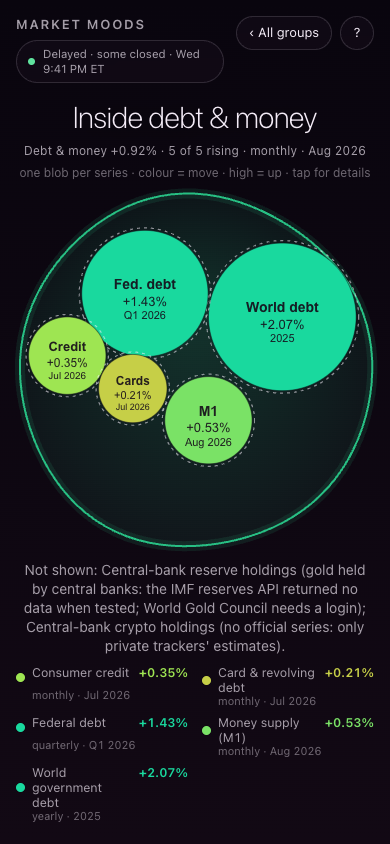
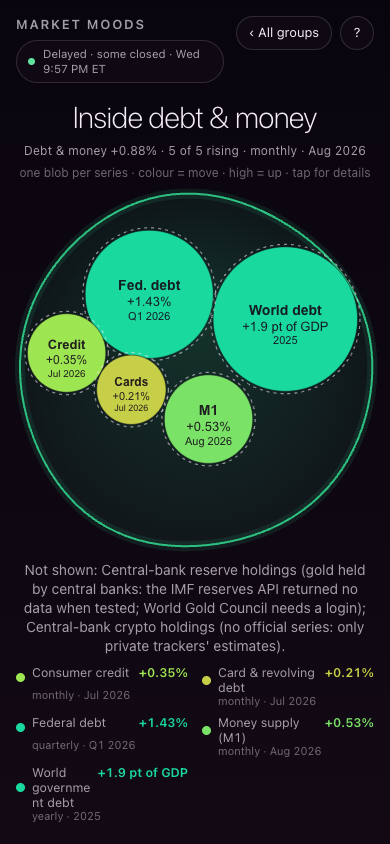
Critic round 1 fixes: economy.html drew only 5 of 7 groups (shader slots), front page two rows on phones + Stocks/Economy captions, economy refresh on its own clock, 2-drop econ blobs, one-pass labels, bigger tap targets; world debt in pt of GDP (IMF estimate), trade $20 bn = 1%, help covers trade/q

diff --git a/index.html b/index.html
@@ -66,6 +66,10 @@
   .tags { position: fixed; inset: 0; pointer-events: none; }
   .tags span.door { pointer-events: auto; cursor: pointer; }
   .tags span.econ { font-size: 10px; opacity: .8; }
+  .fam { position: fixed; inset: 0; pointer-events: none; }
+  .fam span { position: absolute; transform: translate(-50%, 0); font-size: 10px; letter-spacing: .16em; text-transform: uppercase; color: var(--ink-3); opacity: .7; white-space: nowrap; }
+  .fam.stacked { display: none; }   /* phone: two rows already split stocks (top) from the economy (bottom) */
+  body.incell .fam { display: none; }
   .cellcap { position: absolute; left: 0; right: 0; top: 11%; text-align: center; pointer-events: none; display: none; }
   body.incell .cellcap { display: block; }
   .cellcap .word { font-size: clamp(30px, 5.4vw, 58px); font-weight: 200; letter-spacing: -.02em; line-height: 1.05;
@@ -180,6 +184,7 @@
 
 <div class="chrome" id="chrome">
   <div class="tags" id="tags" aria-hidden="true"></div>
+  <div class="fam" id="fam" aria-hidden="true" hidden><span>Stocks</span><span>Economy</span></div>
   <header>
     <div class="brand">
       <h1>Market Moods</h1>
@@ -278,6 +283,7 @@
   // Mood.econGroupPct average economy.html shows, and a tap opens that group's inside view there.
   // They have no intraday replay: a group shows its latest move whatever the timeline is doing.
   const econ = [];
+  const fam = {};             // where the Stocks / Economy captions go, set by draw()
   async function loadEcon() {
     try {
       const r = await fetch("data/economy.json?t=" + Date.now(), { cache: "no-store" });
@@ -292,7 +298,7 @@
         const L = econ.find(e => e.key === g.key);
         if (L) Object.assign(L, { name: g.name, short: g.short, target: g.pct, chop: g.chop });
         else econ.push({ key: g.key, name: g.name, short: g.short, target: g.pct, chop: g.chop, pct: g.pct, h: Mood.height(g.pct), sz: Mood.size(g.pct),
-                         sp: 1, ph: 40 + i * 10, col: Mood.colour(g.pct), drops: makeDrops() });
+                         sp: 1, ph: 40 + i * 10, col: Mood.colour(g.pct), drops: makeDrops(ECON_DROPS) });
       });
       for (let i = econ.length - 1; i >= 0; i--) if (!gs.some(g => g.key === econ[i].key)) econ.splice(i, 1);
       document.body.dataset.econ = econ.map(e => e.key + ":" + e.target.toFixed(2)).join(",");   // read by browser-check.sh
@@ -426,9 +432,9 @@
       lanes.push({ pct: p0, h: Mood.height(p0), sz: Mood.size(p0), sp: 1, ph: i * 10, col: Mood.colour(p0), drops: makeDrops() });
     });
   }
-  function makeDrops() {
+  function makeDrops(count = DROPS) {
     const drops = [];
-    for (let k = 0; k < DROPS; k++) {
+    for (let k = 0; k < count; k++) {
       const s = k * 2.71;                 // same drop shapes in every lane: only the data may make them differ
       drops.push({ ax: 0.6 + 0.4 * frac(s * 1.3), wx: 0.23 + 0.31 * frac(s * 2.1), px: frac(s * 3.7) * 6.28,
                    ay: 0.7 + 0.5 * frac(s * 4.3), wy: 0.11 + 0.19 * frac(s * 5.9), py: frac(s * 6.1) * 6.28,
@@ -443,7 +449,8 @@
   const canvas = $("lamp");
   const gl = canvas.getContext("webgl", { antialias: false, premultipliedAlpha: false, alpha: false });
   const ECON_MAX = 8;                           // economy group blobs beside the four indexes (mm19)
-  const N = (4 + ECON_MAX) * DROPS;
+  const ECON_DROPS = 2;                         // an economy blob: core + one satellite (keeps the shader inside phone GPUs' uniform budget)
+  const N = 4 * DROPS + ECON_MAX * ECON_DROPS;
   let prog, uRes, uBalls, uCols, uBgTop, uBgBot, uHeat, uFear;
   if (gl) {
     const vs = `attribute vec2 p; void main(){ gl_Position = vec4(p, 0.0, 1.0); }`;
@@ -573,17 +580,25 @@
 
   function draw() {
     const W = canvas.width, H = canvas.height, aspect = W / H;
-    // index lanes are full width, economy lanes 0.6 of one (smaller blobs): together they share the screen
-    // a half-lane gap between the two families keeps their wax fields from fusing into one glob
-    const EW = 0.6, GAP = econ.length ? 0.5 : 0, laneW = aspect / (4 + GAP + EW * econ.length);
+    // wide screens: index lanes full width, economy lanes 0.6 of one, a half-lane gap between the two
+    // families so their wax fields never fuse. Narrow (phone): stocks ride the upper row and the
+    // economy the lower one, each family spread over the whole width, each with its own up/down band.
+    const stacked = econ.length > 0 && aspect < 0.8;
+    const EW = 0.6, GAP = econ.length && !stacked ? 0.5 : 0;
+    const laneW = stacked ? aspect / 4 : aspect / (4 + GAP + EW * econ.length);
+    const wE = stacked ? aspect / Math.max(1, econ.length) : laneW * EW, x0E = stacked ? 0 : (4 + GAP) * laneW;
     const baseR = Math.min(laneW * 0.34, 0.095) * pulseNow;   // the heartbeat: exactly 1 when pulseAmp is 0
     const band = travel(baseR * 1.4 * 1.25);   // biggest blob (size 1.4) with its droplets bunched: body edge at (Σr⁴)^¼ ≈ 1.23 R
+    const span = band[1] - band[0];
+    const bandI = stacked ? [band[0] + span * 0.55, band[1]] : band, bandE = stacked ? [band[0], band[0] + span * 0.22] : band;
+    fam.stacked = stacked; fam.iX = 2 * laneW / aspect; fam.eX = (x0E + econ.length * wE / 2) / aspect;
+    fam.iY = bandI[1] + baseR * 1.6; fam.eY = bandE[1] + (stacked ? wE * 0.3 + 0.02 : baseR * 1.6);   // just over the family's highest blob
     let n = 0;
     lanes.concat(econ).forEach((L, i) => {
-      const isE = i >= 4, w = isE ? laneW * EW : laneW;
-      const cx = isE ? (4 + GAP) * laneW + (i - 4 + 0.5) * w : (i + 0.5) * laneW;
+      const isE = i >= 4, w = isE ? wE : laneW, bd = isE ? bandE : bandI;
+      const cx = isE ? x0E + (i - 4 + 0.5) * w : (i + 0.5) * laneW;
       let low = Infinity;
-      const cy = band[0] + L.h * (band[1] - band[0]);
+      const cy = bd[0] + L.h * (bd[1] - bd[0]);
       const amp = 0.55 + 0.45 * Math.min(L.sp, 2.2);
       L.drops.forEach((d, k) => {
         const core = k === 0;
@@ -591,11 +606,12 @@
         // they break away and rejoin. A steady index stays whole, a choppy one comes apart.
         const brk = Math.min(1, Math.max(0.05, (L.sp - 0.6) / 1.0));
         const drift = core ? 0 : 0.7 + 1.6 * brk * Math.max(0, Math.sin((L.ph - i * 10) * 0.17 + d.px * 1.7));   // break-away clock shared: equal chop, equal spread
-        const R = isE ? Math.min(baseR * L.sz * EW, w * 0.3) : baseR * L.sz;   // an economy blob never outgrows its narrow lane   // offsets scale with the blob, so phone and desktop look alike
+        const R = isE ? Math.min(baseR * L.sz * EW, w * 0.3) : baseR * L.sz;   // an economy blob never outgrows its narrow lane; offsets scale with the blob
         const r = R * d.rr, room = Math.max(0, w * 0.5 - r);   // wax stays in its own lane and band
         const x = cx + clampN(Math.sin(L.ph * d.wx * 2 + d.px) * (core ? w * 0.06 : R * 0.45 * d.ax * drift) * amp, -room, room);
-        const y = clampN(cy + Math.sin(L.ph * d.wy * 2 + d.py) * (core ? 0.02 : R * 1.6 * d.ay * drift) * amp, band[0], band[1]);
+        const y = clampN(cy + Math.sin(L.ph * d.wy * 2 + d.py) * (core ? 0.02 : R * 1.6 * d.ay * drift) * amp, bd[0], bd[1]);
         balls[n * 3] = x; balls[n * 3 + 1] = y; balls[n * 3 + 2] = r;
+        if (core) { L.hx = x; L.hy = y; L.hitR = isE ? Math.max(r * 1.5, w * 0.45) : r * 1.5; }   // tap target: a small economy blob gets its lane's width
         low = Math.min(low, y - r * 1.1);
         cols[n * 3] = L.col[0]; cols[n * 3 + 1] = L.col[1]; cols[n * 3 + 2] = L.col[2];
         n++;
@@ -642,18 +658,29 @@
       econ.forEach(g => { const a = document.createElement("span"); a.textContent = g.short; a.className = "door econ";
         a.title = "Look inside " + g.name; a.onclick = () => { location.href = "economy.html#g=" + g.key; }; tags.appendChild(a); });
     }
-    lanes.concat(econ).forEach((L, i) => { if (L.tagX == null) return; const s = tags.children[i];
-      const half = s.offsetWidth / 2 / innerWidth;   // a label never runs off either edge of the screen
-      s.style.left = (clampN(L.tagX, half + 0.01, 1 - half - 0.01) * 100).toFixed(2) + "%"; s.style.bottom = (Math.max(0, L.tagY) * 100).toFixed(2) + "%";
-      s.style.visibility = "visible"; });
-    // economy labels sit close together: one that would touch the label before it drops a line
-    let prev = null;
-    for (const s of [...tags.children].slice(data.indexes.length)) {
-      const r = s.getBoundingClientRect();
-      if (prev && r.left < prev.right + 4 && r.right > prev.left - 4 && r.top < prev.bottom + 2 && r.bottom > prev.top - 2)
-        s.style.bottom = Math.max(0, innerHeight - prev.bottom - r.height - 2) + "px";   // sit just under the label before it
-      prev = s.getBoundingClientRect();
-    }
+    // labels in one pass: read every width, then write every position (no read-after-write reflow per label).
+    // A label never runs off either screen edge; an economy label that would touch any label already placed
+    // drops below it, never under the bottom of the screen.
+    const all = lanes.concat(econ), els = [...tags.children], W_ = innerWidth, H_ = innerHeight;
+    const boxes = all.map((L, i) => { const s = els[i]; if (!s || L.tagX == null) return null;
+      const w = s.offsetWidth, h = s.offsetHeight || 14, half = w / 2 / W_;
+      const x = clampN(L.tagX, half + 0.01, 1 - half - 0.01) * W_;
+      return { s, l: x - w / 2, r: x + w / 2, h, b: Math.max(0, L.tagY) * H_, x }; });
+    const placed = [];
+    boxes.forEach((B, i) => { if (!B) return;
+      if (i >= 4) for (let guard = 0; guard < 8; guard++) {
+        const hit = placed.find(P => B.l < P.r + 4 && B.r > P.l - 4 && B.b < P.b + P.h + 2 && B.b + B.h > P.b - 2);
+        if (!hit) break; B.b = Math.max(0, hit.b - B.h - 2);
+        if (B.b === 0) break;
+      }
+      placed.push(B); });
+    for (const B of boxes) if (B) { B.s.style.left = (B.x / W_ * 100).toFixed(2) + "%"; B.s.style.bottom = B.b.toFixed(1) + "px"; B.s.style.visibility = "visible"; }
+    // the two family captions (Stocks / Economy): above each family on a wide screen, at the left of each row on a phone
+    const fm = $("fam");
+    if (fm) { fm.hidden = !econ.length; fm.classList.toggle("stacked", !!fam.stacked);
+      const [cs, ce] = fm.children;
+      cs.style.left = fam.stacked ? "16px" : (fam.iX * 100).toFixed(2) + "%"; cs.style.bottom = (fam.iY * 100).toFixed(2) + "%";
+      ce.style.left = fam.stacked ? "16px" : (fam.eX * 100).toFixed(2) + "%"; ce.style.bottom = (fam.eY * 100).toFixed(2) + "%"; }
     $("moodWord").textContent = Mood.moodWord(avgPctShown);
     $("moodWord").style.color = hex(Mood.colour(avgPctShown).map(v => v * 0.35 + 0.65));
     $("moodSub").textContent = "Average move " + fmtPct(avgPctShown);
@@ -1130,8 +1157,7 @@
       const b = i * DROPS * 3;
       return Math.hypot(e.clientX - balls[b] * H, e.clientY - (H - balls[b + 1] * H)) < balls[b + 2] * H * 1.5;
     });
-    const eHit = !hit && econ.find((g, j) => { const b = (4 + j) * DROPS * 3;
-      return balls[b + 2] > 0 && Math.hypot(e.clientX - balls[b] * H, e.clientY - (H - balls[b + 1] * H)) < balls[b + 2] * H * 1.5; });
+    const eHit = !hit && econ.find(g => g.hitR != null && Math.hypot(e.clientX - g.hx * H, e.clientY - (H - g.hy * H)) < g.hitR * H);
     if (hit) openCell(hit.key);
     else if (eHit) location.href = "economy.html#g=" + eHit.key;
     else document.body.classList.toggle("bare");
@@ -1153,6 +1179,7 @@
   }
   load();
   setInterval(load, REFRESH_MS);
+  setInterval(loadEcon, REFRESH_MS);   // economy.json has its own cron: refresh it even when market.json has not changed
   requestAnimationFrame(frame);
   if (/(^#|&)help(&|$)/.test(location.hash)) openHelp();   // #help: for browser-check.sh only
   window.__mm = { get mode() { return mode; }, get pos() { return pos; }, lanes, get data() { return data; }, gl: !!gl,

diff --git a/economy.html b/economy.html
@@ -142,11 +142,11 @@
     <dt>Height</dt><dd>Up floats, down sinks. Inside a group the reach is 2.5%, as inside a company view.</dd>
     <dt>Size</dt><dd>A bigger move is a bigger blob. There is no market value to size a price by.</dd>
     <dt>Motion</dt><dd>Restless when the last hour's prints were choppy. Weekly and monthly numbers have no last hour, so they drift slowly.</dd>
-    <dt>Move</dt><dd id="helpUnits">Prices: percent change on the previous close. Rates: change in basis points (10 bp counts as 1%). Unemployment: change in points (0.1 pt counts as 1%). Jobs: thousands added (150k counts as 1%). Prices, sales and spending: percent change on the previous reading.</dd>
-    <dt>Dates</dt><dd>Prices are delayed by about 10 minutes while their market is open, and say "closed" with the time of the last print when it is not. Weekly and monthly numbers carry the date of the reading itself, and are never called live.</dd>
+    <dt>Move</dt><dd id="helpUnits">Prices: percent change on the previous close. Rates: change in basis points (10 bp counts as 1%). Unemployment: change in points (0.1 pt counts as 1%). Jobs: thousands added (150k counts as 1%). Trade balance: change in dollars ($20 bn counts as 1%); the US runs a deficit, so a wider gap is a fall. World government debt: change in points of world GDP (1 pt counts as 1%), an IMF estimate. Prices, sales, spending, debts and freight: percent change on the previous reading.</dd>
+    <dt>Dates</dt><dd>Prices are delayed by about 10 minutes while their market is open, and say "closed" with the time of the last print when it is not. Weekly, monthly, quarterly and yearly numbers carry the period of the reading itself (federal debt: its quarter, which lands about three months after it ends; world debt: the last full year), and are never called live.</dd>
     <dt>A group's move</dt><dd>The plain average of its members' moves. A group with market prices averages only those; the economy blob averages its slow numbers, each at its own date.</dd>
   </dl>
-  <p class="src" id="src">Data: Yahoo Finance and FRED.</p>
+  <p class="src" id="src">Data: Yahoo Finance, FRED and the IMF.</p>
   <p class="src" id="srcMissing" hidden></p>
   <button class="btn close" id="helpClose" type="button">Close</button>
 </dialog>
@@ -255,7 +255,7 @@
   // ---------- lamp ----------
   const canvas = $("lamp");
   const gl = canvas.getContext("webgl", { antialias: false, premultipliedAlpha: false, alpha: false });
-  const NB = 5 * DROPS;
+  const MAXG = 8, NB = MAXG * DROPS;   // shader slots: up to 8 groups (7 today); a group past the slots would be silently undrawn
   let uRes, uBalls, uCols, uBgTop, uBgBot, uHeat;
   if (gl) {
     const vs = `attribute vec2 p; void main(){ gl_Position = vec4(p, 0.0, 1.0); }`;
@@ -316,7 +316,7 @@
       L.drops.forEach((d, k) => {
         const core = k === 0, brk = Math.min(1, Math.max(0.05, (L.sp - 0.6) / 1.0));
         const drift = core ? 0 : 0.7 + 1.6 * brk * Math.max(0, Math.sin((L.ph - i * 10) * 0.17 + d.px * 1.7));
-        const R = baseR * L.sz, r = R * d.rr, room = Math.max(0, laneW * 0.5 - r);
+        const R = Math.min(baseR * L.sz, laneW * 0.36), r = R * d.rr, room = Math.max(0, laneW * 0.5 - r);   // capped to its lane: two big neighbours never fuse
         const x = cx + clampN(Math.sin(L.ph * d.wx * 2 + d.px) * (core ? laneW * 0.06 : R * 0.45 * d.ax * drift) * amp, -room, room);
         const y = clampN(cy + Math.sin(L.ph * d.wy * 2 + d.py) * (core ? 0.02 : R * 1.6 * d.ay * drift) * amp, band[0], band[1]);
         balls[n * 3] = x; balls[n * 3 + 1] = y; balls[n * 3 + 2] = r;
@@ -326,7 +326,7 @@
       });
       L.tagX = cx / aspect; L.tagY = low - 0.035;
     });
-    canvas.dataset.drops = n;   // read by economy-check.sh: how many wax drops were actually drawn
+    canvas.dataset.drops = Math.min(n, NB);   // read by economy-check.sh: drops the shader can actually draw (slots past NB are dropped by GL)
     const heat = Mood.colour(avgShown);
     gl.uniform2f(uRes, W, H); gl.uniform3fv(uBalls, balls); gl.uniform3fv(uCols, cols);
     gl.uniform3f(uBgTop, 0.035, 0.02, 0.055); gl.uniform3f(uBgBot, 0.07, 0.035, 0.08); gl.uniform3f(uHeat, heat[0], heat[1], heat[2]);

diff --git a/check.js b/check.js
@@ -204,7 +204,8 @@ near(M.econMove("pt", 4.1, 4.2).pct, 1, "econ pt: 0.1 point counts as 1%");
 near(M.econMove("jobs", 100000, 100150).pct, 1, "econ jobs: 150k jobs counts as 1%");
 ok(M.econMove("pct", 0, 5) === null && M.econMove("bp", NaN, 5) === null && M.econMove("nope", 1, 2) === null, "econ: no move rather than a made-up one");
 ok(M.econMove("bp", 5, 5.06).text === "+6 bp" && M.econMove("pct", 100, 98.5).text === "−1.50%" && M.econMove("jobs", 1, 163).text === "+162k jobs", "econ: the words say the unit");
-near(M.econMove("bn", -88576, -78576).pct, 2, "econ bn: a $10 bn narrower trade gap counts as +2%");
+near(M.econMove("bn", -88576, -68576).pct, 1, "econ bn: a $20 bn narrower trade gap counts as +1%");
+ok(M.econMove("gdp", 92, 93.9).text === "+1.9 pt of GDP" && Math.abs(M.econMove("gdp", 92, 93.9).pct - 1.9) < 1e-9, "econ gdp: a share of GDP moves in points, 1 pt = 1%");
 ok(M.econMove("bn", -88576, -98576).text === "−$10.0 bn" && M.econMove("bn", 1, 1).text === "$0.0 bn", "econ bn: the words say dollars, sign first, no -0");
 ok(M.econSlow({ freq: "quarterly" }) && M.econSlow({ freq: "yearly" }), "econ: quarterly and yearly are slow");
 ok(M.econAsOf({ freq: "quarterly", asof: "2026-04-01" }, 0).label === "quarterly · Q2 2026" && M.econAsOf({ freq: "yearly", asof: "2025-01-01" }, 0).label === "yearly · 2025", "econ time: quarterly names its quarter, yearly its year");
@@ -245,7 +246,7 @@ ok(M.econSlow({ freq: "monthly" }) && M.econSlow({ freq: "weekly" }) && !M.econS
       ok(g.members.length >= 3, `${g.key}: at least 3 members live (${g.members.length})`);
       for (const m of g.members) {
         ok(!seen.has(m.key), `${m.key}: not in two groups`); seen.add(m.key); all.push(m);
-        ok(["pct", "bp", "pt", "jobs", "bn"].includes(m.kind) && ["5min", "daily", "weekly", "monthly", "quarterly", "yearly"].includes(m.freq), `${m.key}: known kind and rhythm`);
+        ok(["pct", "bp", "pt", "jobs", "bn", "gdp"].includes(m.kind) && ["5min", "daily", "weekly", "monthly", "quarterly", "yearly"].includes(m.freq), `${m.key}: known kind and rhythm`);
         ok(Number.isFinite(m.prev) && Number.isFinite(m.last) && m.name && m.unit && m.src && m.short, `${m.key}: real numbers, named, with unit and source`);
         const mv = M.econMove(m.kind, m.prev, m.last);
         ok(mv && Math.abs(mv.pct) < 30, `${m.key}: a move exists and is under 30% (${mv && mv.text}): a bigger one is a parse bug, not news`);

diff --git a/mood.js b/mood.js
@@ -170,9 +170,11 @@
     if (kind === "bp") { const d = (last - prev) * 100; return { raw: d, pct: d / 10, text: signed(d, 0, " bp") }; }
     if (kind === "pt") { const d = last - prev; return { raw: d, pct: d * 10, text: signed(d, 1, " pt") }; }
     if (kind === "jobs") { const d = last - prev; return { raw: d, pct: d / 150, text: signed(d, 0, "k jobs") }; }
-    // ponytail: a $5 bn swing counts as 1% (a scale like payrolls' 150k); the trade balance is negative, so a
+    // ponytail: a $20 bn swing counts as 1% (about a routine month's change; a scale like payrolls' 150k); the trade balance is negative, so a
     // percent change would flip its meaning. Input in $ million (FRED BOPGSTB). Upgrade: scale by its own spread.
-    if (kind === "bn") { const d = (last - prev) / 1000; return { raw: d, pct: d / 5, text: (d > 0 ? "+$" : d < 0 ? MINUS + "$" : "$") + Math.abs(+d.toFixed(1)).toFixed(1) + " bn" }; }
+    //   gdp = change of a share of GDP in points; 1 pt counts as 1% (world government debt, yearly)
+    if (kind === "gdp") { const d = last - prev; return { raw: d, pct: d, text: signed(d, 1, " pt of GDP") }; }
+    if (kind === "bn") { const d = (last - prev) / 1000; return { raw: d, pct: d / 20, text: (d > 0 ? "+$" : d < 0 ? MINUS + "$" : "$") + Math.abs(+d.toFixed(1)).toFixed(1) + " bn" }; }
     return null;
   }
   // slow = a weekly or monthly release: no last hour to be choppy in, and it never moves between releases

diff --git a/fetch.py b/fetch.py
@@ -362,7 +362,7 @@ ECON = [
         ("cards", "Card & revolving debt", "f", "REVOLSL", "pct", "$ million owed", "monthly"),
         ("fedDebt", "Federal debt", "f", "GFDEBTN", "pct", "$ million owed", "quarterly"),
         ("m1", "Money supply (M1)", "f", "M1SL", "pct", "$ billion", "monthly"),
-        ("worldDebt", "World government debt", "i", "GGXWDG_NGDP/WEOWORLD", "pct", "% of world GDP", "yearly")]),
+        ("worldDebt", "World government debt", "i", "GGXWDG_NGDP/WEOWORLD", "gdp", "% of world GDP (IMF estimate)", "yearly")]),
     ("shipping", "Shipping & trade", "Shipping", [
         ("trade", "Trade balance", "f", "BOPGSTB", "bn", "$ million / month", "monthly"),
         ("cassShip", "Freight shipments (Cass)", "f", "FRGSHPUSM649NCIS", "pct", "index", "monthly"),
@@ -430,7 +430,7 @@ def econ_fred(spec, rows):
     if len(rows) < 2: raise ValueError(f"{sid}: fewer than two readings")
     (pd_, prev), (ld, last) = rows[-2], rows[-1]
     m = {"key": key, "name": name, "sym": sid, "kind": kind, "unit": unit, "freq": freq,
-         "src": f"FRED ({sid})", "prev": prev, "last": last, "asof": ld, "prev_asof": pd_}
+         "src": f"IMF World Economic Outlook ({sid}, estimate)" if spec[2] == "i" else f"FRED ({sid})", "prev": prev, "last": last, "asof": ld, "prev_asof": pd_}
     if freq == "monthly" and kind == "pct" and len(rows) > 12:
         m["yoy"] = round((last / rows[-13][1] - 1) * 100, 2)      # against the same month a year before
     return m
@@ -482,7 +482,7 @@ def build_economy(prev=None):
         groups.append({"key": gkey, "name": gname, "short": gshort, "members": mem})
     for g in groups:
         for m in g["members"]: m["short"] = ECON_SHORT.get(m["key"], m["name"])
-    return {"generated_at": int(time.time()), "source": "Yahoo Finance (delayed futures and yields), FRED and the IMF (each series at its own release rhythm)",
+    return {"generated_at": int(time.time()), "source": "Yahoo Finance (delayed futures and yields), FRED and the IMF World Economic Outlook (each series at its own release rhythm)",
             "groups": groups, "missing": missing}
 
 def selfcheck():
